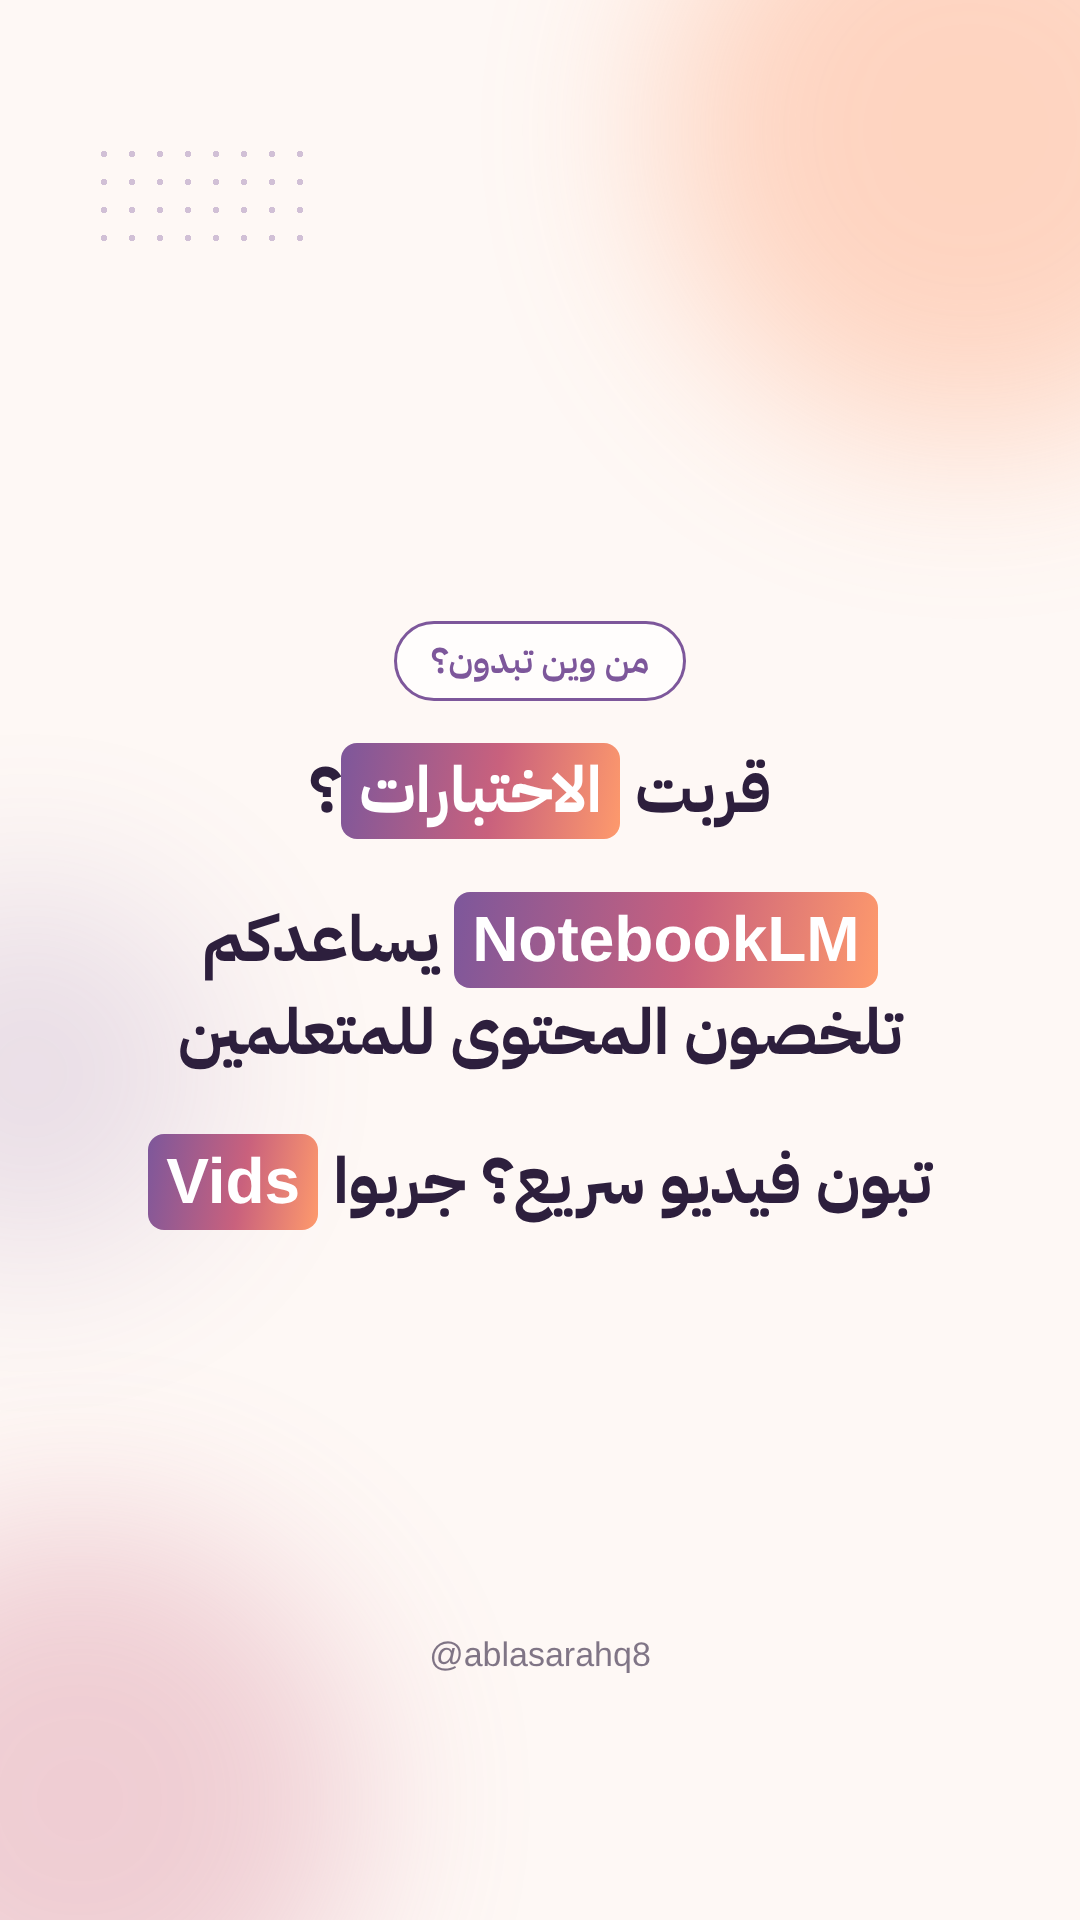
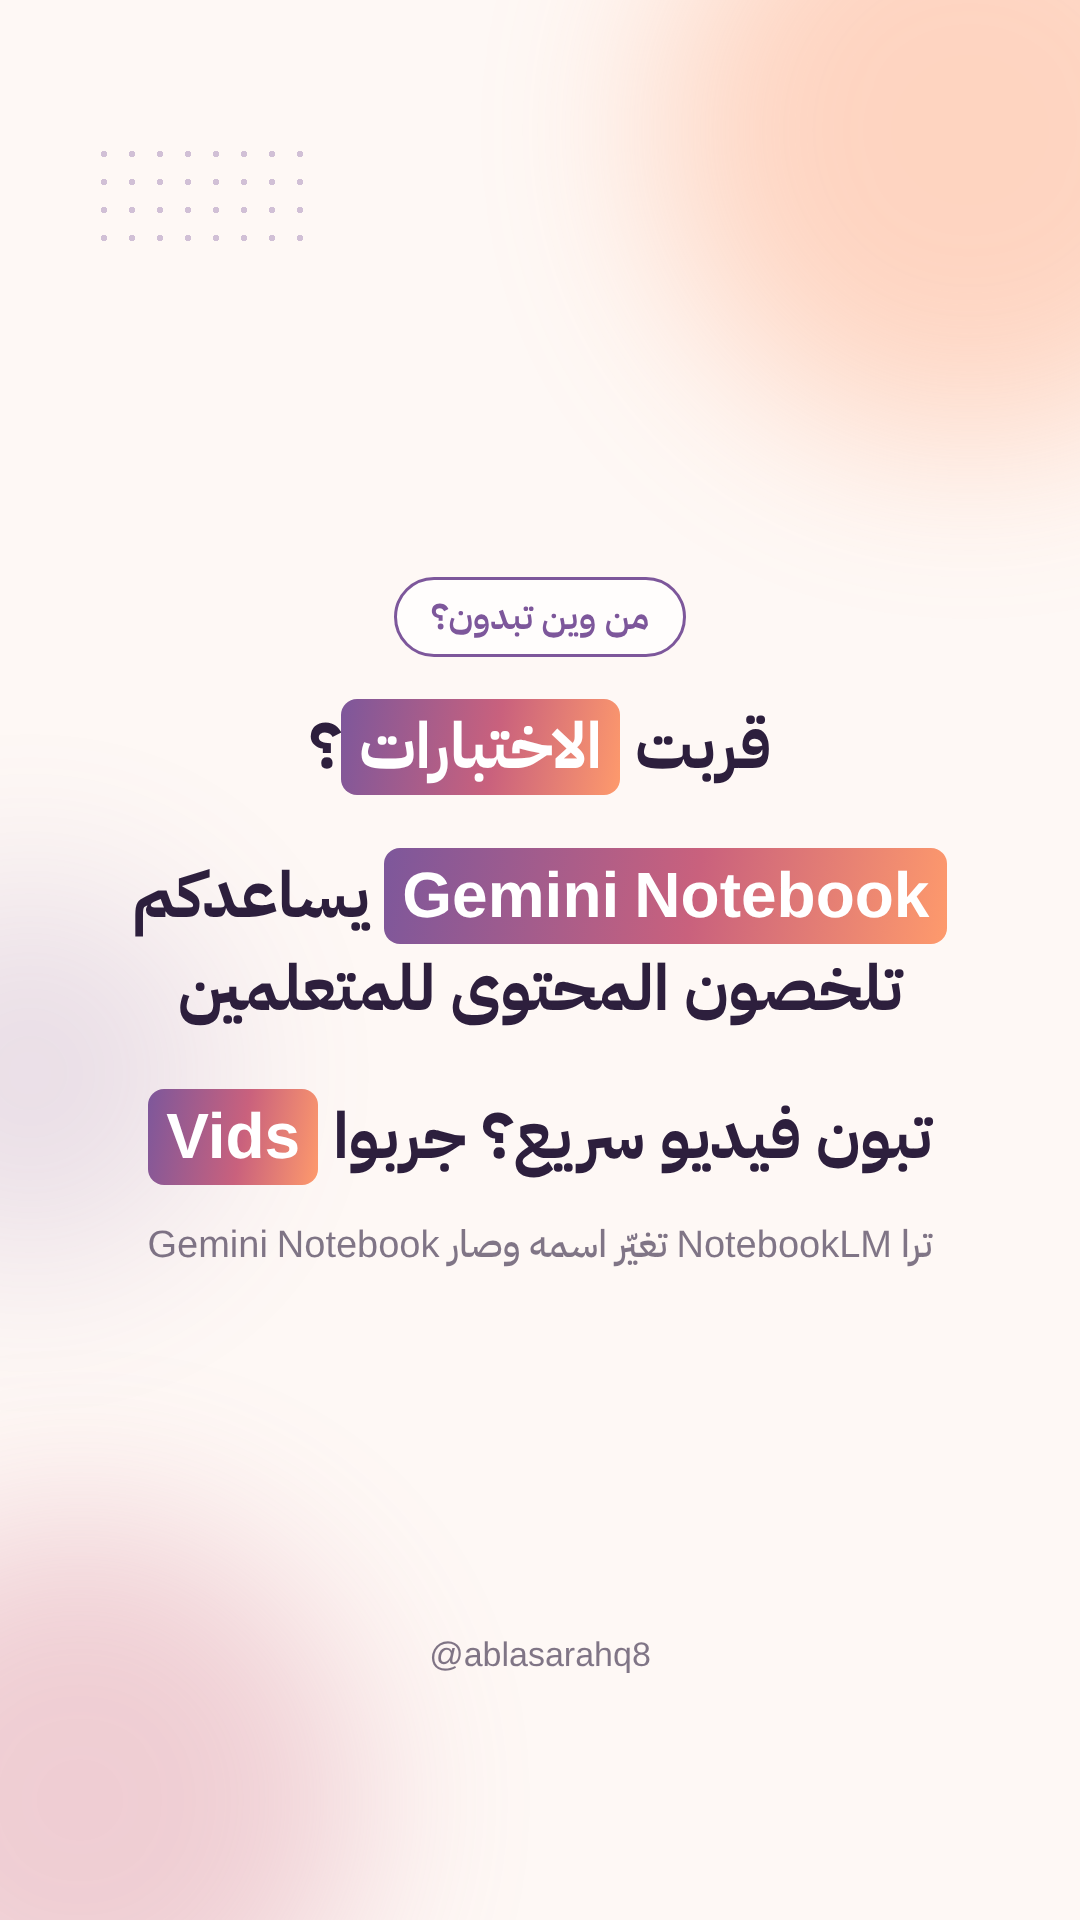
Story frame 4: use Gemini Notebook name and note the rename
Claude-Session: https://claude.ai/code/session_01C9N7rH5MZ4XgGkU4nsuG7g

Changed region(s): [[0.1222, 0.3125, 0.8861, 0.6562]]

diff --git a/stories_2026-11-13/stories.html b/stories_2026-11-13/stories.html
@@ -92,4 +92,4 @@ body { font-family:'IBM Plex Sans Arabic', sans-serif; direction:rtl; }
         background-image:radial-gradient(#7D579B 3px, transparent 3.5px); background-size:28px 28px; }
 .vcard { background:rgba(254,248,245,.94); border-radius:44px; padding:56px 60px; box-shadow:0 20px 60px rgba(0,0,0,.3); }
 .vcard .st { color:#2d1f3d; text-shadow:none; }
-</style></head><body class="theme-light"><section class="frame" data-transparent="false" style="background:#fef8f5;"><div class="blob b1"></div><div class="blob b2"></div><div class="blob b3"></div><div class="dots"></div><div class="safe" style="justify-content:center"><div class="kicker">أكثر سؤال يوصلني</div><div class="qcard"><span class="qm">”</span><p class="st">الأدوات وايد.. <span class="hl">من وين</span> أبدي؟</p></div><div class="qcard"><span class="qm">”</span><p class="st">كل وحدة تقول إنها <span class="hl">الأفضل</span></p></div></div><div class="handle">@ablasarahq8</div></section><section class="frame" data-transparent="false" style="background:#fef8f5;"><div class="blob b1"></div><div class="blob b2"></div><div class="blob b3"></div><div class="dots"></div><div class="safe" style="justify-content:center"><div class="kicker">من وين تبدون؟</div><p class="st ">قربت <span class="hl">الاختبارات</span>؟</p><p class="st "><span class="hl">NotebookLM</span> يساعدكم تلخصون المحتوى للمتعلمين</p><p class="st ">تبون فيديو سريع؟ جربوا <span class="hl">Vids</span></p></div><div class="handle">@ablasarahq8</div></section></body></html>
+</style></head><body class="theme-light"><section class="frame" data-transparent="false" style="background:#fef8f5;"><div class="blob b1"></div><div class="blob b2"></div><div class="blob b3"></div><div class="dots"></div><div class="safe" style="justify-content:center"><div class="kicker">أكثر سؤال يوصلني</div><div class="qcard"><span class="qm">”</span><p class="st">الأدوات وايد.. <span class="hl">من وين</span> أبدي؟</p></div><div class="qcard"><span class="qm">”</span><p class="st">كل وحدة تقول إنها <span class="hl">الأفضل</span></p></div></div><div class="handle">@ablasarahq8</div></section><section class="frame" data-transparent="false" style="background:#fef8f5;"><div class="blob b1"></div><div class="blob b2"></div><div class="blob b3"></div><div class="dots"></div><div class="safe" style="justify-content:center"><div class="kicker">من وين تبدون؟</div><p class="st ">قربت <span class="hl">الاختبارات</span>؟</p><p class="st "><span class="hl">Gemini Notebook</span> يساعدكم تلخصون المحتوى للمتعلمين</p><p class="st ">تبون فيديو سريع؟ جربوا <span class="hl">Vids</span></p><div class="small">ترا NotebookLM تغيّر اسمه وصار Gemini Notebook</div></div><div class="handle">@ablasarahq8</div></section></body></html>

diff --git a/stories_2026-11-13/script.md b/stories_2026-11-13/script.md
@@ -7,7 +7,7 @@
 
 ### 2 — الطريقة  ·  📷 صورة
 - قربت **الاختبارات**؟
-- **NotebookLM** يساعدكم تلخصون المحتوى للمتعلمين
+- **Gemini Notebook** يساعدكم تلخصون المحتوى للمتعلمين
 - تبون فيديو سريع؟ جربوا **Vids**
 
 **شنو تقيسين:** ردود ملصق السؤال بالشريحة ٦ + الضغط على ملصق البوست بالشريحة ٥
